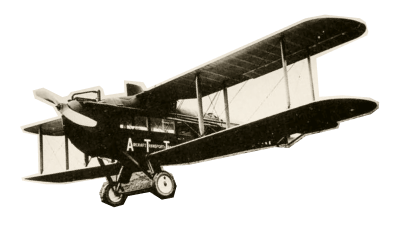
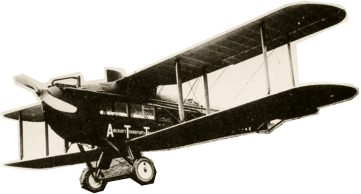
fix: styles main, stages, tournament, airplane

Changed region(s): [[0.0, 0.0, 1.0, 1.0]]

diff --git a/styles/stages.css b/styles/stages.css
@@ -1,6 +1,7 @@
 .stages {
     padding: 40px 16px 16px 28px;
     background-color: #fff;
+    /* overflow-x: clip; */
 }
 
 .stages__header {
@@ -450,10 +451,6 @@
         grid-area: airport;
     }
 
-    .stages__inner-mobile-img {
-        display: none;
-    }
-
     .stages__inner-text {
         max-width: 446px;
     }
@@ -474,7 +471,7 @@
     }
 
     .stages__list-mobile {
-        display: none;
+        /* display: none; */
     }
 
     .stages__promo {
@@ -526,12 +523,36 @@
     }
 
     .stages__inner-img {
-        width: clamp(318.76px, 27.6vw, 376.64px);
-        height: clamp(118.84px, 14.6vw, 200px);
+        /* width: clamp(318.76px, 27.6vw, 376.64px); */
+        /* height: clamp(118.84px, 14.6vw, 200px);
         background: url("../bg/airplane.png") center / cover no-repeat;
         position: absolute;
         top: clamp(-85px, -7.4vw, -87px);
-        right: clamp(-64px, -5.2vw, -58px);
+        right: clamp(-64px, -5.2vw, -58px); */
+        /* width: 41.57vmin;
+        height: clamp(118.84px, 14.6vw, 200px);
+        background: url(../bg/airplane.png) center / cover no-repeat;
+        position: absolute;
+        top: clamp(-82px, -7.4vw, -87px);
+        right: clamp(-48px, -5.2vw, -58px); */
+    }
+
+    .stages__image {
+        position: absolute;
+        width: clamp(150px, 28.57vmin, 376.64px);
+        height: auto;
+        bottom: clamp(28px, -6vw, -87px);
+        right: clamp(-35px, -4vw, -58px);
+        z-index: 10;
+        pointer-events: none;
+    }
+
+    .stages__inner-mobile-img {
+        display: none;
+    }
+
+    .stages__list-mobile {
+        display: none;
     }
 
     .stages__promo {

diff --git a/styles/participants.css b/styles/participants.css
@@ -87,7 +87,7 @@
 
 .participants__card {
     flex: 0 0 calc(100% - 32px);
-    padding: 24px 16px 32px;
+    padding: 12px 16px 32px;
     text-align: center;
     transition: all 0.3s ease;
 }
@@ -95,7 +95,7 @@
 .participants__avatar {
     width: 320px;
     height: 320px;
-    margin: 0 auto 24px;
+    margin: 0 auto 32px;
     border-radius: 50%;
     overflow: hidden;
 }
@@ -125,12 +125,13 @@
 
 .participants__btn {
     background: transparent;
-    border: 1px solid #3057A2;
+    outline: 1px solid #3057A2;
     border-radius: 62px;
-    padding: 8px 16px;
+    padding: 12px;
     color: #3057A2;
     font-family: "Golos Text", sans-serif;
-    font-size: 14px;
+    font-size: 16px;
+    line-height: 1;
     font-weight: 500;
     cursor: pointer;
     transition: all 0.3s ease;
@@ -189,11 +190,6 @@
     }
 
     .participants__title-card {
-        font-size: 16px;
-    }
-
-    .participants__btn {
-        padding: 12px;
-        font-size: 16px;
+        font-size: 20px;
     }
 }

diff --git a/styles/header.css b/styles/header.css
@@ -78,6 +78,7 @@
     color: #1F1F1F;
     background-color: #fff;
     outline: 2px solid #fff;
+    opacity: 90%;
 }
 
 .running-line {
@@ -160,8 +161,8 @@
     }
 
     .header__btn_details {
-        outline: 2px solid #1F1F1F;
-        background-color: transparent;
+        /* outline: 2px solid #1F1F1F;
+        background-color: transparent; */
     }
 
     .running-line {
@@ -216,6 +217,10 @@
 
     .header__btn {
         padding: 16px 49px;
+    }
+
+    .header__btn_details {
+        opacity: 100%;
     }
 
     .running-line {

diff --git a/index.html b/index.html
@@ -188,7 +188,12 @@
                                     самолётов и дирижаблей во все концы света,
                                     включая Лос-Анжелос и Мельбурн
                                 </div>
-                                <div class="stages__inner-img"></div>
+                                <!-- <div class="stages__inner-img"></div> -->
+                                <img
+                                    class="stages__image"
+                                    src="./img/airplane.png"
+                                    alt="airplane"
+                                />
                             </li>
                         </ol>
                         <div class="stages__inner-mobile-img"></div>

diff --git a/styles/main.css b/styles/main.css
@@ -4,6 +4,6 @@
 
 @media (min-width: 768px) {
     .main {
-        padding: 80px calc(50% - 1222px / 2) 140px;
+        padding: 80px calc(50% - 1222px / 2) 62px;
     }
 }

diff --git a/styles/tournament.css b/styles/tournament.css
@@ -70,7 +70,7 @@
         gap: clamp(32px, 4.68%, 64px);
         align-items: center;
         justify-content: center;
-        padding: 0 20px;
+        padding: 0;
     }
 
     .tournament__text {